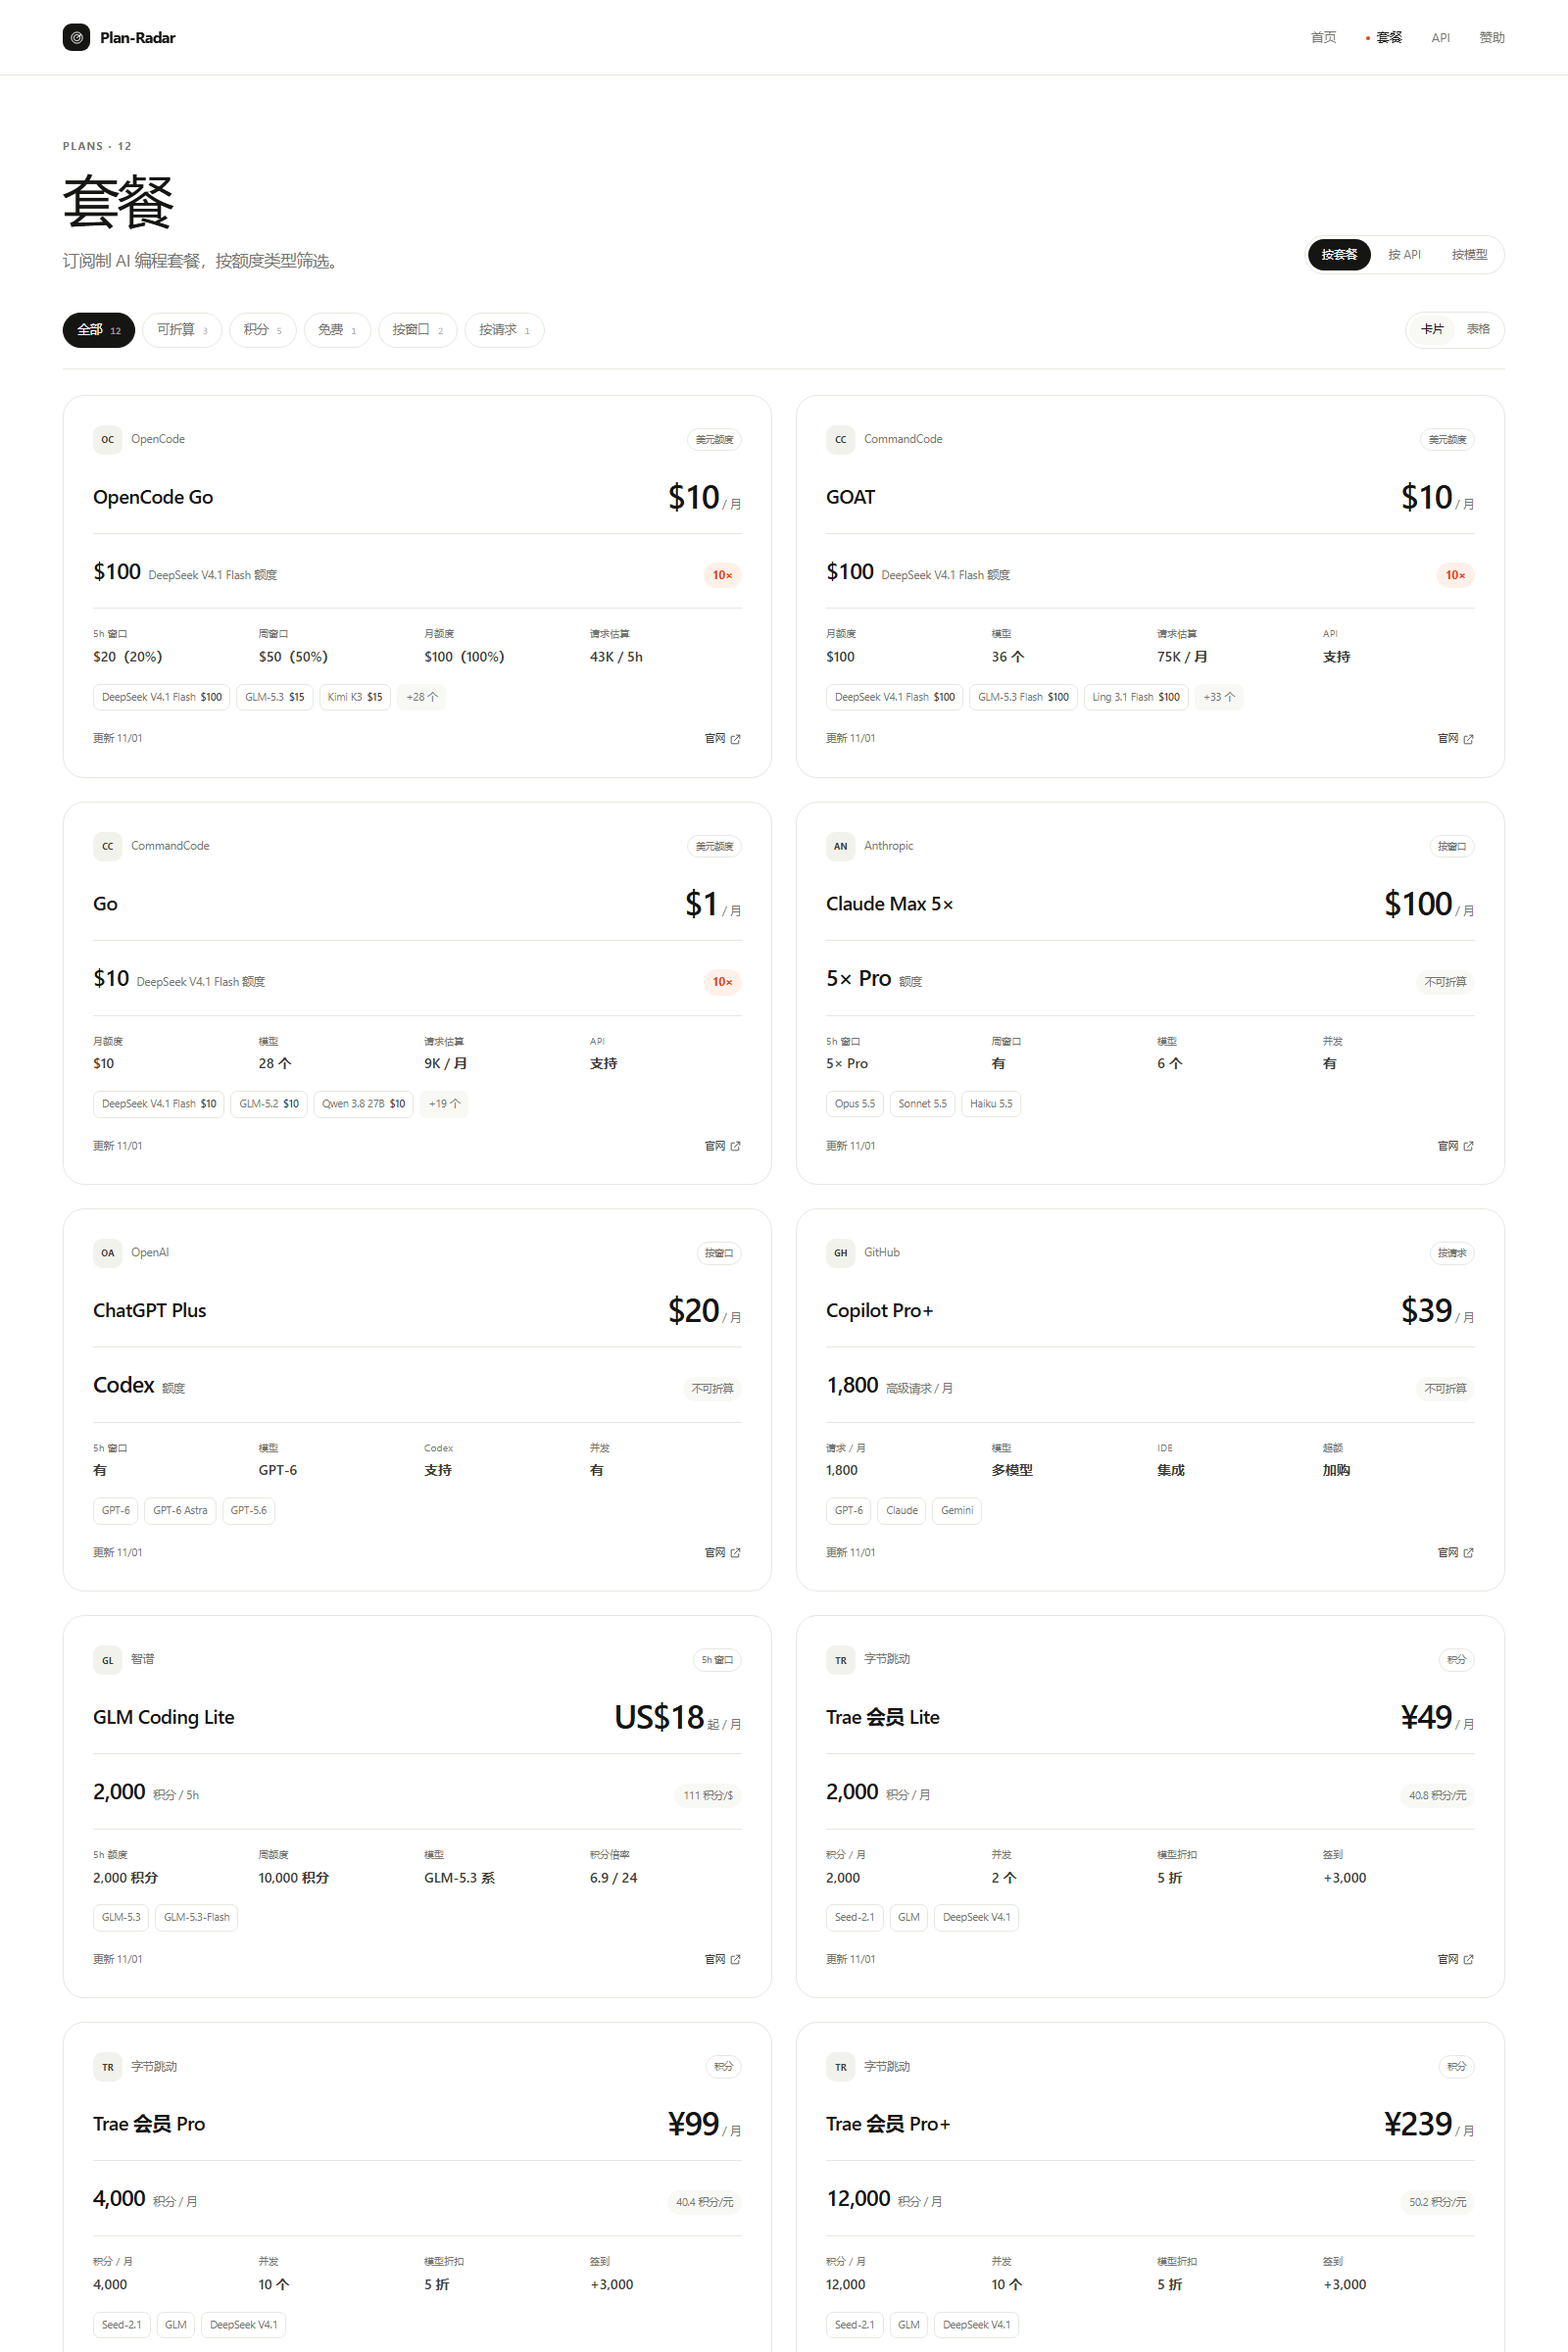
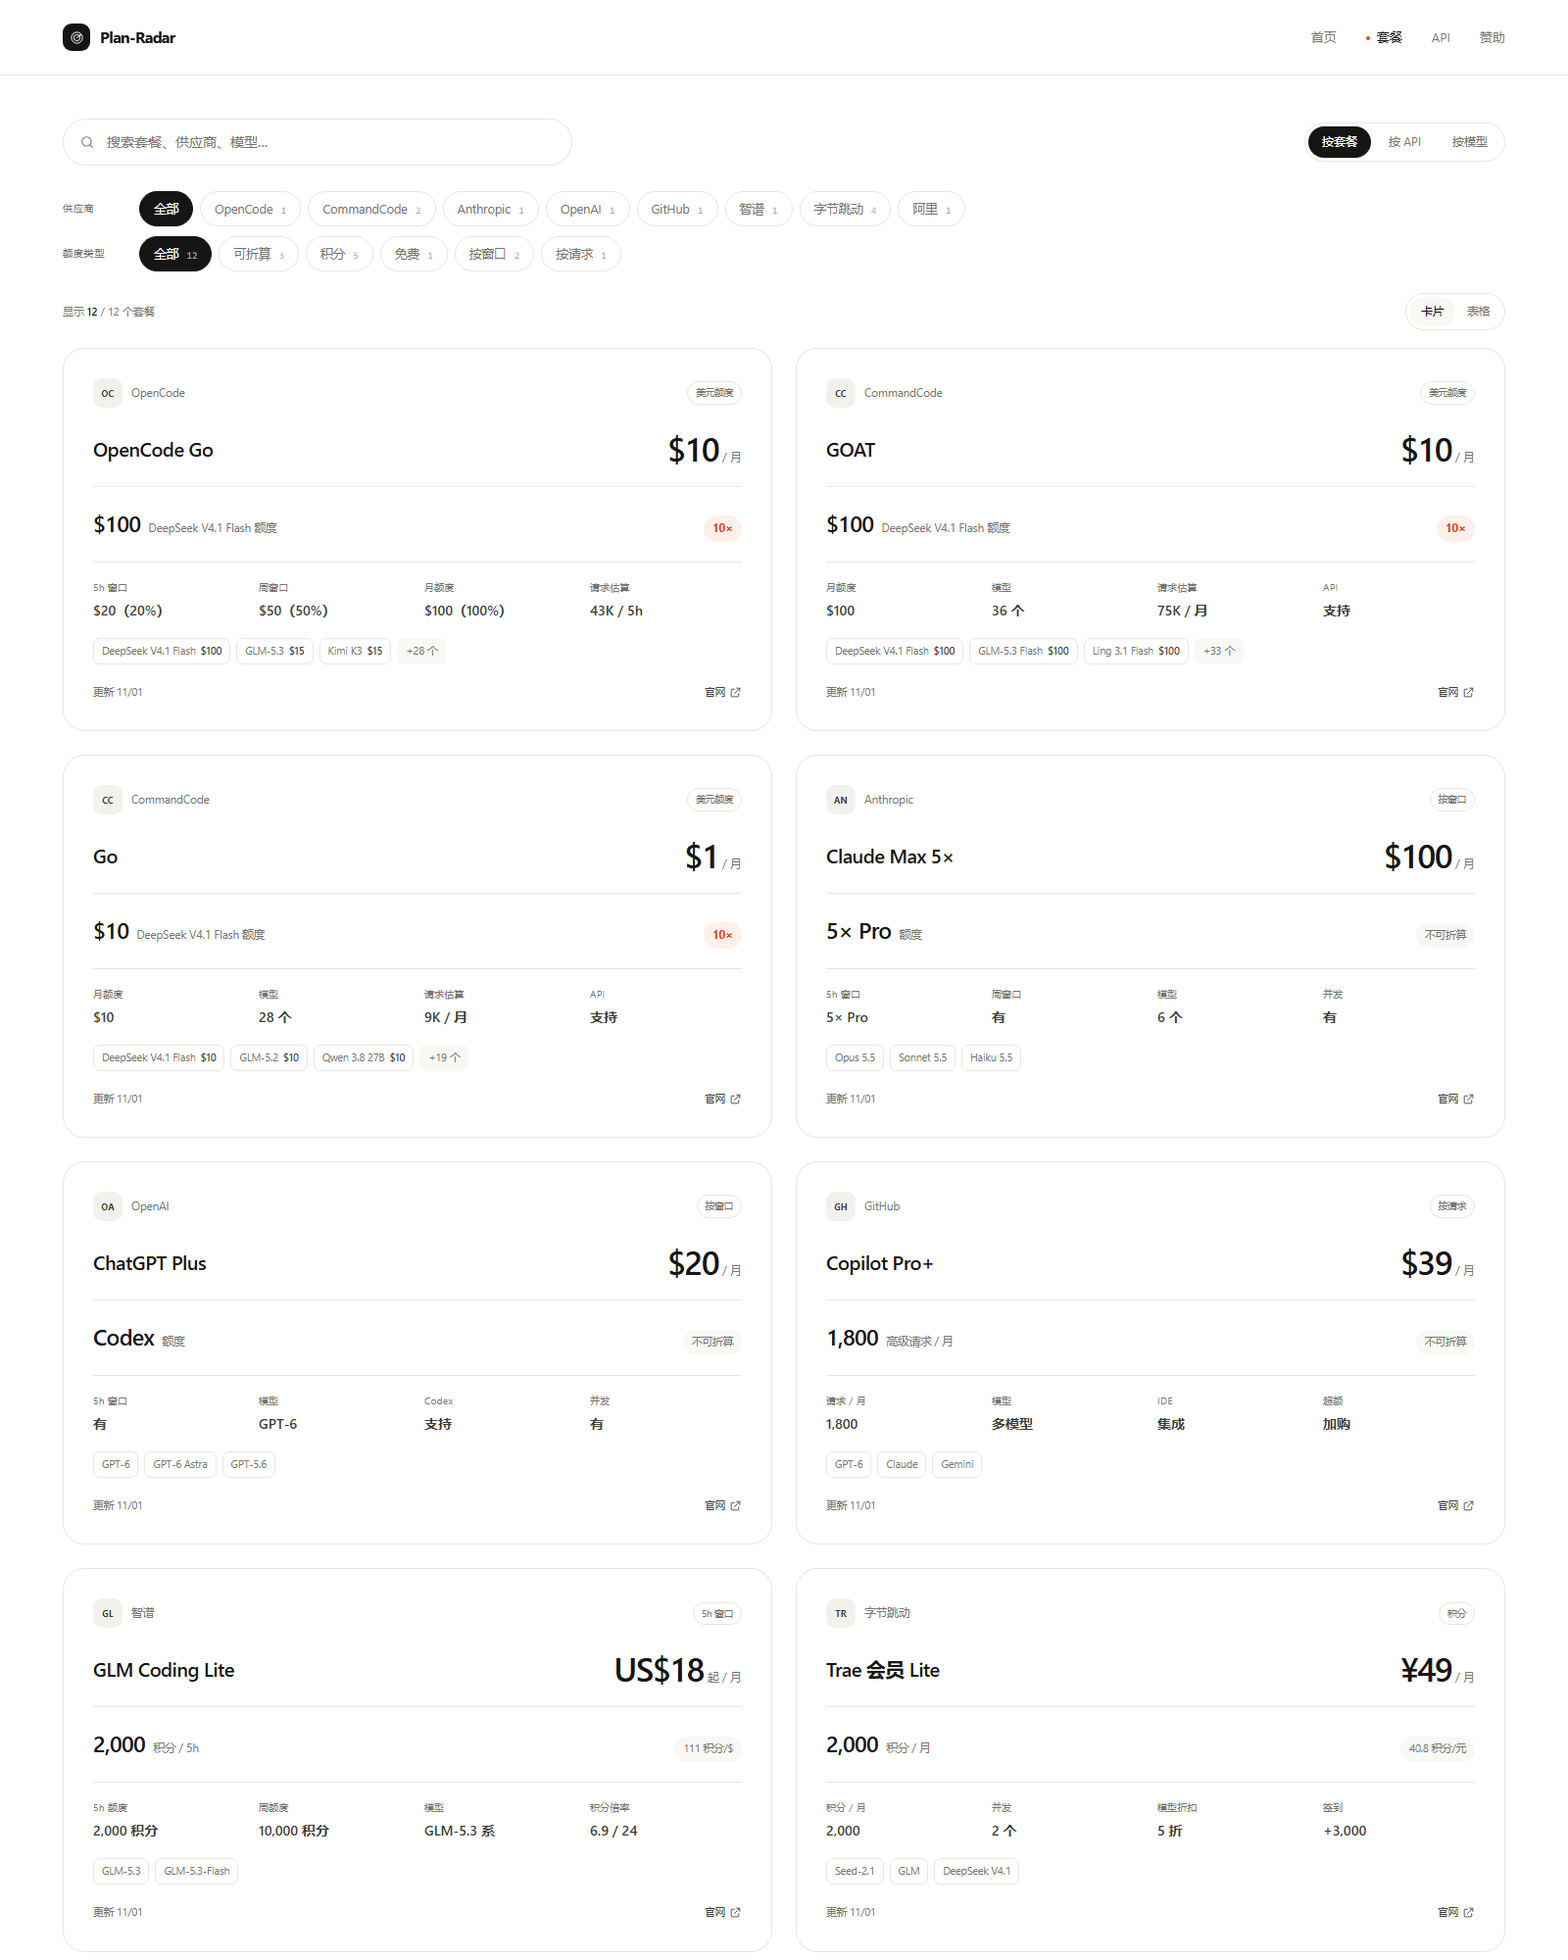
feat: search and filters

diff --git a/components/PlanExplorer.tsx b/components/PlanExplorer.tsx
@@ -1,6 +1,6 @@
 "use client";
 
-import { useMemo, useState } from "react";
+import { useMemo, useState, type ReactNode } from "react";
 import type { Plan, PlanFilter } from "@/lib/plans";
 import { Icon } from "./Icon";
 import { PlanCard } from "./PlanCard";
@@ -10,6 +10,20 @@ interface PlanExplorerProps {
   filters: PlanFilter[];
   ratioLabel: string;
   note: string;
+  tabs?: ReactNode;
+}
+
+function searchText(plan: Plan) {
+  return [
+    plan.name,
+    plan.provider,
+    plan.tag,
+    plan.quotaLabel,
+    ...plan.models.map((model) => model.name),
+    ...plan.specs.map((spec) => `${spec.label} ${spec.value}`),
+  ]
+    .join(" ")
+    .toLowerCase();
 }
 
 export function PlanExplorer({
@@ -17,30 +31,119 @@ export function PlanExplorer({
   filters,
   ratioLabel,
   note,
+  tabs,
 }: PlanExplorerProps) {
+  const [query, setQuery] = useState("");
+  const [provider, setProvider] = useState("all");
   const [filter, setFilter] = useState<"all" | Plan["kind"]>("all");
   const [view, setView] = useState<"cards" | "table">("cards");
 
+  const providers = useMemo(() => {
+    const counts = new Map<string, number>();
+    plans.forEach((plan) => {
+      counts.set(plan.provider, (counts.get(plan.provider) ?? 0) + 1);
+    });
+    return Array.from(counts, ([name, count]) => ({ name, count }));
+  }, [plans]);
+
+  const keyword = query.trim().toLowerCase();
   const visible = useMemo(
-    () => (filter === "all" ? plans : plans.filter((plan) => plan.kind === filter)),
-    [filter, plans],
+    () =>
+      plans.filter((plan) => {
+        if (provider !== "all" && plan.provider !== provider) return false;
+        if (filter !== "all" && plan.kind !== filter) return false;
+        if (keyword && !searchText(plan).includes(keyword)) return false;
+        return true;
+      }),
+    [plans, provider, filter, keyword],
   );
+
+  const active = query !== "" || provider !== "all" || filter !== "all";
+
+  function reset() {
+    setQuery("");
+    setProvider("all");
+    setFilter("all");
+  }
 
   return (
     <>
-      <div className="toolbar">
-        <div className="chips">
-          {filters.map((item) => (
+      <div className="catalog-top">
+        <div className="catalog-search">
+          <Icon name="search" />
+          <input
+            type="search"
+            value={query}
+            onChange={(event) => setQuery(event.target.value)}
+            placeholder="搜索套餐、供应商、模型…"
+            aria-label="搜索套餐、供应商、模型"
+          />
+          {query ? (
             <button
-              key={item.key}
               type="button"
-              className={filter === item.key ? "chip active" : "chip"}
-              onClick={() => setFilter(item.key)}
+              className="catalog-clear"
+              onClick={() => setQuery("")}
+              aria-label="清空搜索"
             >
-              {item.label} <span className="n">{item.count}</span>
+              <Icon name="x" className="icon icon-sm" />
             </button>
-          ))}
+          ) : null}
         </div>
+        {tabs ? <div className="catalog-actions">{tabs}</div> : null}
+      </div>
+
+      <div className="tag-groups">
+        <div className="tag-row">
+          <span className="tag-label">供应商</span>
+          <div className="chips">
+            <button
+              type="button"
+              className={provider === "all" ? "chip active" : "chip"}
+              onClick={() => setProvider("all")}
+            >
+              全部
+            </button>
+            {providers.map((item) => (
+              <button
+                key={item.name}
+                type="button"
+                className={provider === item.name ? "chip active" : "chip"}
+                onClick={() =>
+                  setProvider(provider === item.name ? "all" : item.name)
+                }
+              >
+                {item.name} <span className="n">{item.count}</span>
+              </button>
+            ))}
+          </div>
+        </div>
+
+        <div className="tag-row">
+          <span className="tag-label">额度类型</span>
+          <div className="chips">
+            {filters.map((item) => (
+              <button
+                key={item.key}
+                type="button"
+                className={filter === item.key ? "chip active" : "chip"}
+                onClick={() => setFilter(item.key)}
+              >
+                {item.label} <span className="n">{item.count}</span>
+              </button>
+            ))}
+          </div>
+        </div>
+      </div>
+
+      <div className="catalog-result">
+        <span>
+          显示 <b>{visible.length}</b> / {plans.length} 个套餐
+          {active ? (
+            <button type="button" className="catalog-reset" onClick={reset}>
+              清空筛选
+            </button>
+          ) : null}
+        </span>
 
         <div className="view-toggle">
           <button
@@ -126,7 +229,7 @@ export function PlanExplorer({
 
       <p className="note">{note}</p>
       {visible.length === 0 ? (
-        <div className="empty">没有符合筛选的套餐。</div>
+        <div className="empty">没有找到匹配的套餐。</div>
       ) : null}
     </>
   );

diff --git a/app/globals.css b/app/globals.css
@@ -494,6 +494,99 @@ h1, h2, h3, p { margin: 0; }
 .display-tabs a:hover { color: var(--ink); }
 .display-tabs a.active { background: var(--ink); color: #fff; }
 
+/* ---------- catalog search & tags ---------- */
+
+.catalog-top {
+  display: flex;
+  align-items: center;
+  justify-content: space-between;
+  gap: 24px;
+  padding-top: 44px;
+}
+.catalog-search {
+  display: flex;
+  align-items: center;
+  gap: 10px;
+  width: min(520px, 100%);
+  height: 48px;
+  padding: 0 16px;
+  border: 1px solid var(--line);
+  border-radius: 999px;
+  background: #fff;
+  color: var(--muted);
+  transition: border-color 0.18s ease;
+}
+.catalog-search:focus-within { border-color: var(--ink); }
+.catalog-search input {
+  flex: 1;
+  min-width: 0;
+  border: 0;
+  outline: 0;
+  background: transparent;
+  font: inherit;
+  font-size: 14px;
+  color: var(--ink);
+}
+.catalog-search input::placeholder { color: var(--muted); }
+.catalog-search input::-webkit-search-cancel-button { display: none; }
+.catalog-clear {
+  display: grid;
+  place-items: center;
+  width: 24px;
+  height: 24px;
+  border: 0;
+  border-radius: 50%;
+  background: var(--soft);
+  color: var(--muted);
+  cursor: pointer;
+}
+.catalog-clear:hover { color: var(--ink); }
+.catalog-actions { display: flex; align-items: center; gap: 10px; flex-shrink: 0; }
+
+.tag-groups { display: flex; flex-direction: column; gap: 10px; margin-top: 26px; }
+.tag-row { display: flex; align-items: flex-start; gap: 14px; flex-wrap: wrap; }
+.tag-label {
+  width: 64px;
+  padding-top: 9px;
+  font-size: 10px;
+  letter-spacing: 0.08em;
+  color: var(--muted);
+  white-space: nowrap;
+}
+.tag-row .chips { flex: 1; }
+
+.catalog-result {
+  display: flex;
+  align-items: center;
+  justify-content: space-between;
+  gap: 20px;
+  margin: 22px 0 18px;
+  font-size: 11px;
+  color: var(--muted);
+}
+.catalog-result b { color: var(--ink); font-weight: 550; }
+.catalog-reset {
+  margin-left: 12px;
+  padding: 0;
+  border: 0;
+  background: transparent;
+  color: var(--accent);
+  font-size: 11px;
+  cursor: pointer;
+}
+
+.visually-hidden {
+  position: absolute;
+  width: 1px;
+  height: 1px;
+  padding: 0;
+  margin: -1px;
+  overflow: hidden;
+  clip: rect(0 0 0 0);
+  white-space: nowrap;
+  border: 0;
+}
+
 .toolbar {
   display: flex;
   align-items: center;
@@ -1099,4 +1192,10 @@ h1, h2, h3, p { margin: 0; }
   .duel-card { padding: 26px; min-height: 0; }
   .duel-price { font-size: 40px; }
   .page-head { padding-top: 46px; }
+  .catalog-top { flex-direction: column; align-items: stretch; padding-top: 28px; }
+  .catalog-search { width: 100%; }
+  .catalog-actions { justify-content: flex-start; }
+  .tag-row { flex-direction: column; gap: 8px; }
+  .tag-label { width: 100%; padding-top: 0; }
+  .catalog-result { flex-direction: column; align-items: flex-start; gap: 10px; }
 }

diff --git a/app/plans/page.tsx b/app/plans/page.tsx
@@ -5,20 +5,13 @@ import { allPlans, planFilters } from "@/lib/plans";
 export default function PlansPage() {
   return (
     <div className="wrap">
-      <div className="page-head page-head-row">
-        <div>
-          <div className="eyebrow">Plans · 12</div>
-          <h1 className="display">套餐</h1>
-          <p className="lead">订阅制 AI 编程套餐，按额度类型筛选。</p>
-        </div>
-        <DisplayTabs mode="plans" />
-      </div>
-
+      <h1 className="visually-hidden">套餐</h1>
       <PlanExplorer
         plans={allPlans}
         filters={planFilters}
         ratioLabel="折算"
         note="倍数只用于同币种美元额度；积分、请求数、窗口额度不跨口径比较。"
+        tabs={<DisplayTabs mode="plans" />}
       />
     </div>
   );

diff --git a/components/Icon.tsx b/components/Icon.tsx
@@ -8,7 +8,9 @@ export type IconName =
   | "star"
   | "coffee"
   | "heart"
-  | "mail";
+  | "mail"
+  | "search"
+  | "x";
 
 const paths: Record<IconName, ReactNode> = {
   radar: (
@@ -52,6 +54,18 @@ const paths: Record<IconName, ReactNode> = {
     <>
       <rect x="3" y="5" width="18" height="14" rx="2" />
       <path d="m3 7 9 6 9-6" />
+    </>
+  ),
+  search: (
+    <>
+      <circle cx="11" cy="11" r="7" />
+      <path d="m20 20-3.5-3.5" />
+    </>
+  ),
+  x: (
+    <>
+      <path d="M18 6 6 18" />
+      <path d="m6 6 12 12" />
     </>
   ),
 };
